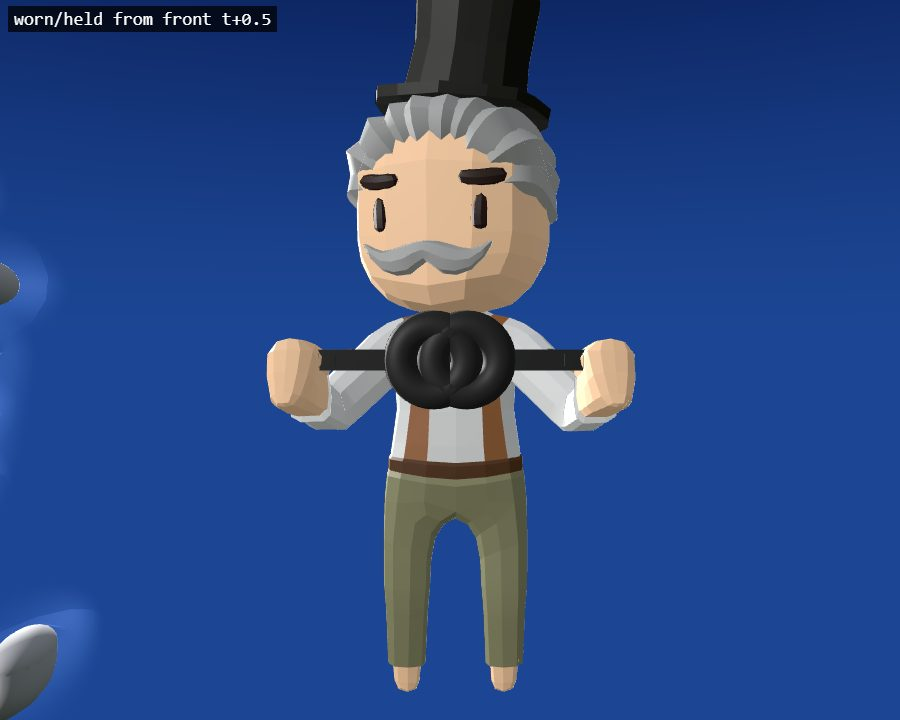
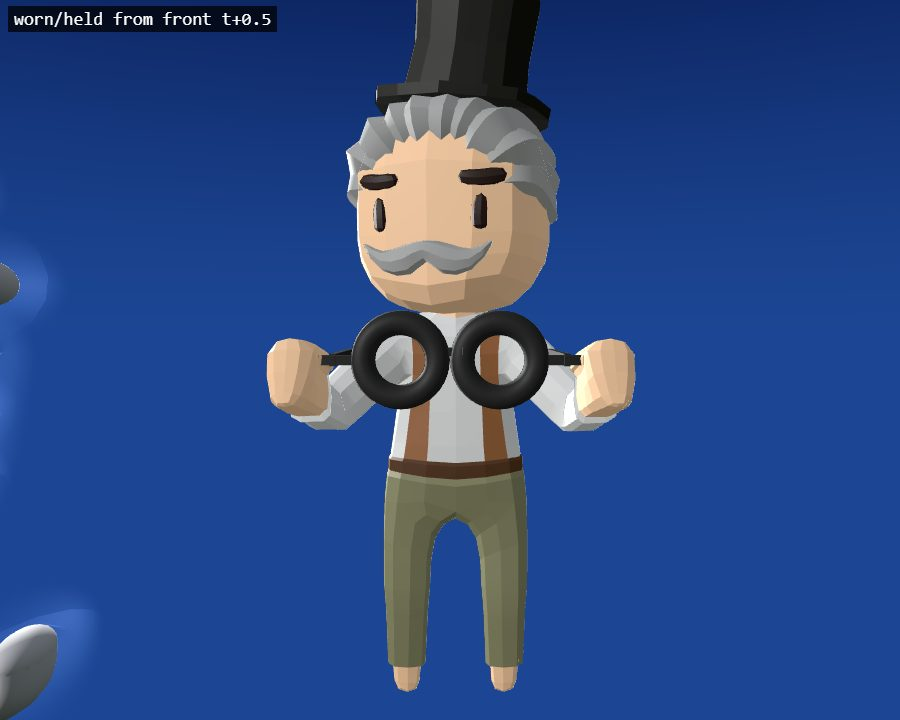
Qwen: 020-megane-glasses round 2

Changed region(s): [[0.3422, 0.4278, 0.6533, 0.5806]]

diff --git a/src/effects/vignettes/q-glasses.js b/src/effects/vignettes/q-glasses.js
@@ -23,16 +23,17 @@ function glassesScene(ctx, spec, stage) {
   const u = stage.u, B = stage.box, group = new THREE.Group(), floor = B.minY;
   const X = (x) => B.maxX + x * u;
   const who = actor('grandpa', ADULT * u);
-  // the glasses, sized from his face: lens rings 0.25 of his eyes' apart, end pieces out to his half-face width (the
-  // hinges), and the arms straight back from the hinges to his ears
-  const hu = ADULT * u, e = who.shape().eyes, hx = e.half * hu, ringR = 0.04 * hu;
-  const cx = 0.02 * hu, armLen = (e.z - who.shape().mid.z + 0.02) * hu, T = 0.008 * hu, tab = hx + 0.05 * hu;
+  // the glasses, sized from his face: rings over his eyes (centres ±0.06 hu, radius 0.045 hu, a 0.015 hu wire),
+  // a thin bridge between the inner edges, end pieces out to the hinges at his half-face width, and the arms straight
+  // back from the hinges to his ears
+  const hu = ADULT * u, e = who.shape().eyes, hx = e.half * hu, ringR = 0.045 * hu;
+  const cx = 0.06 * hu, armLen = (e.z - who.shape().mid.z + 0.02) * hu, T = 0.008 * hu, tab = hx + 0.02 * hu;
   const lenses = solidProp([
-    [G.torus(ringR, 0.02 * hu, Math.PI * 2, cx, 0, 0), 0x202020],
-    [G.torus(ringR, 0.02 * hu, Math.PI * 2, -cx, 0, 0), 0x202020],
-    [G.box(0.06 * hu, 0.025 * hu, T, 0, 0.01 * hu, 0), 0x202020],
-    [G.box(tab - (cx + ringR), 0.025 * hu, T, (tab + cx + ringR) / 2, 0, 0), 0x202020],
-    [G.box(tab - (cx + ringR), 0.025 * hu, T, -(tab + cx + ringR) / 2, 0, 0), 0x202020],
+    [G.torus(ringR, 0.015 * hu, Math.PI * 2, cx, 0, 0), 0x202020],
+    [G.torus(ringR, 0.015 * hu, Math.PI * 2, -cx, 0, 0), 0x202020],
+    [G.box(0.03 * hu, 0.01 * hu, T, 0, 0.01 * hu, 0), 0x202020],
+    [G.box(tab - (cx + ringR), 0.012 * hu, T, (tab + cx + ringR) / 2, 0, 0), 0x202020],
+    [G.box(tab - (cx + ringR), 0.012 * hu, T, -(tab + cx + ringR) / 2, 0, 0), 0x202020],
   ], 0.35);
   const arms = solidProp([
     [G.box(T, 0.015 * hu, armLen, hx, 0, -armLen / 2), 0x202020],
@@ -40,7 +41,7 @@ function glassesScene(ctx, spec, stage) {
   ], 0.35);
   const glasses = new THREE.Group(); glasses.add(lenses, arms);
   const worn = new THREE.Object3D();                                    // helper: where onEyes puts the glasses, each frame
-  const glint = burst(u, { s: 0.08, n: 4, color: 0xffffff });
+  const glint = burst(u, { s: 0.05, n: 4, color: 0xffffff });
   lenses.name = 'lenses'; arms.name = 'arms';
   group.add(who.group, glasses, worn, glint);
   const chest = new THREE.Vector3(X(0.56), floor + 0.465 * u, 0.13 * u); // the glasses' middle at his chest
@@ -74,7 +75,7 @@ function glassesScene(ctx, spec, stage) {
         who.grip(side, Tw, C.sub(Tw).normalize(), 0.01 * u * ws, k);
       }
       // a glint on his left lens, 3.0-3.4
-      const gp = W.set(-0.27 * e.apart * hu, 0, 0.02 * hu).applyQuaternion(glasses.quaternion).add(glasses.position);
+      const gp = W.set(0.06 * hu, 0.01 * hu, 0.02 * hu).applyQuaternion(glasses.quaternion).add(glasses.position);
       pop(glint, pre ? 0 : bump(v, 3.0, 0.4), gp.x, gp.y, gp.z);
       who.nod(pre ? 0 : bump(v, 3.4, 0.9) + bump(v, 4.5, 0.9), v);         // twice, pleased
     },
